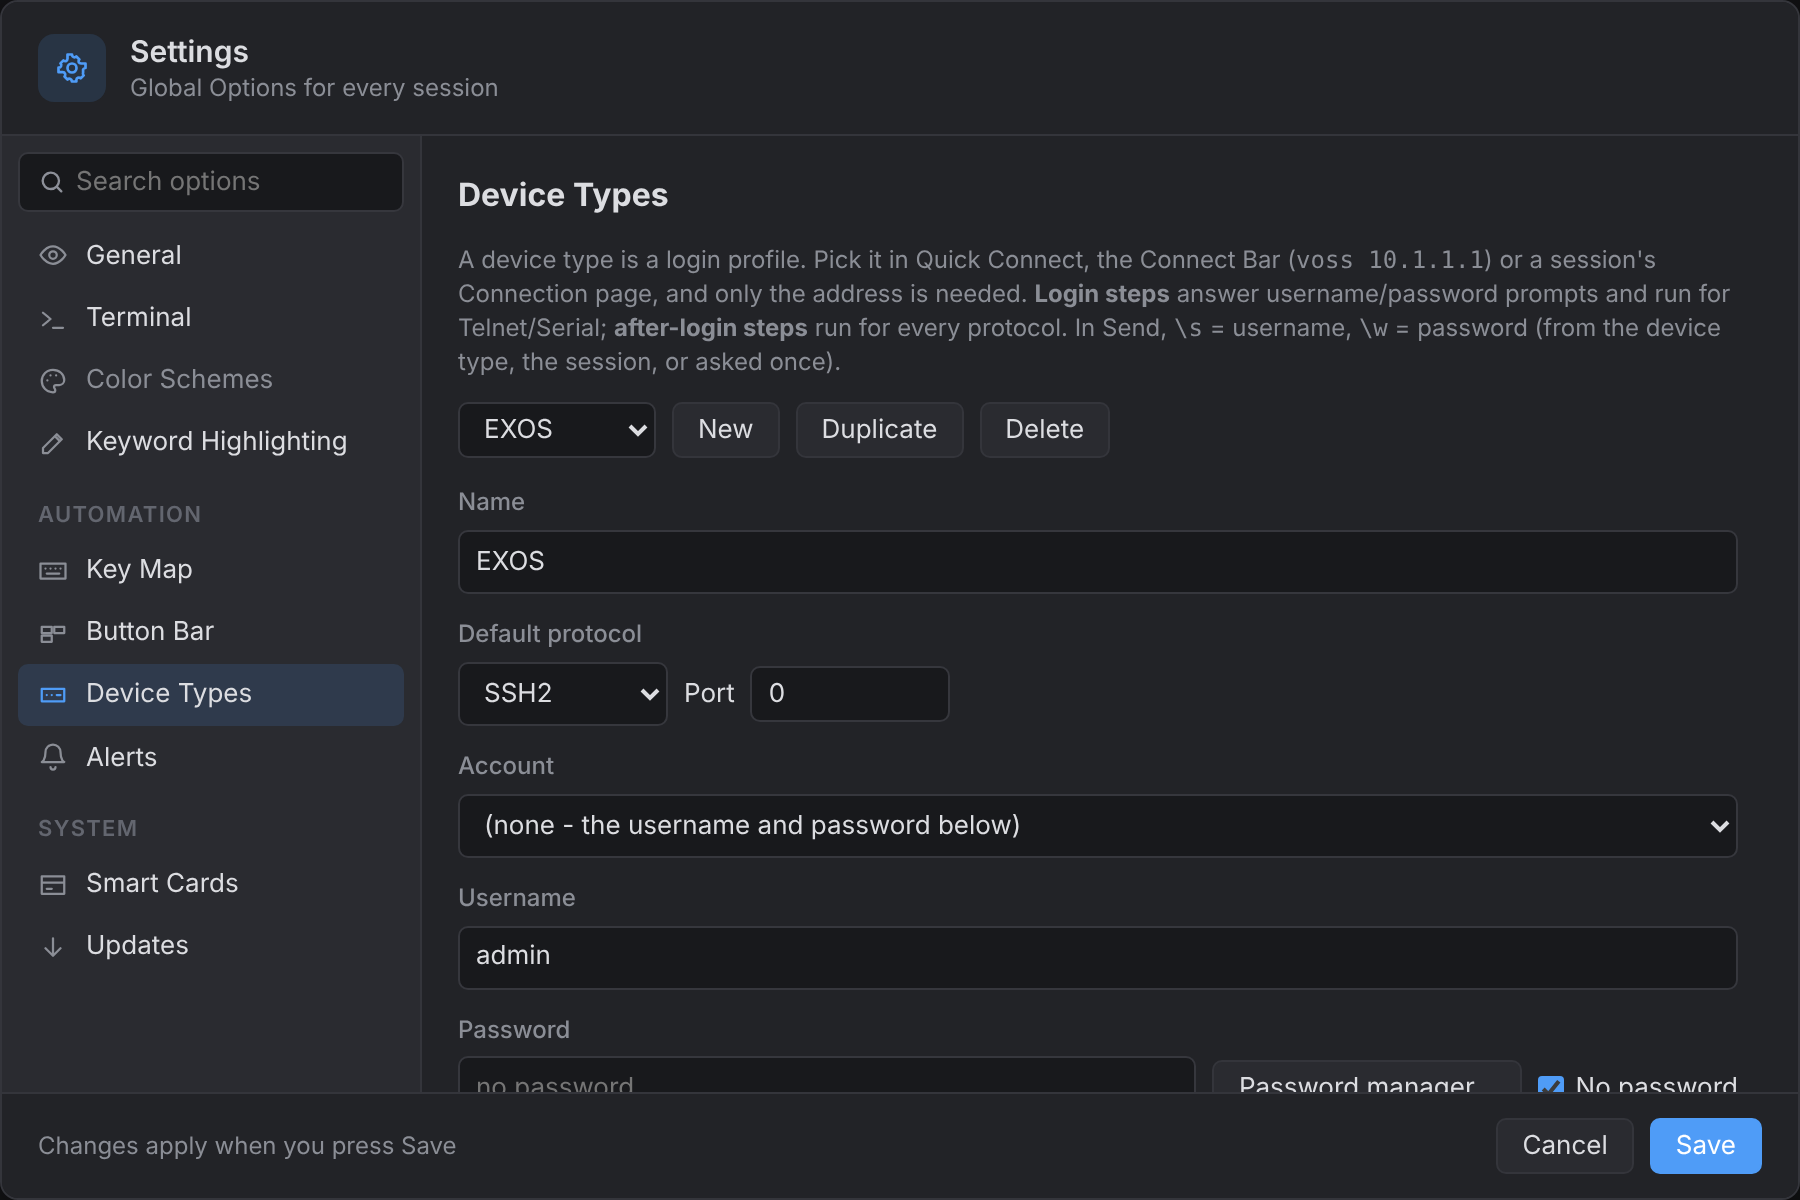
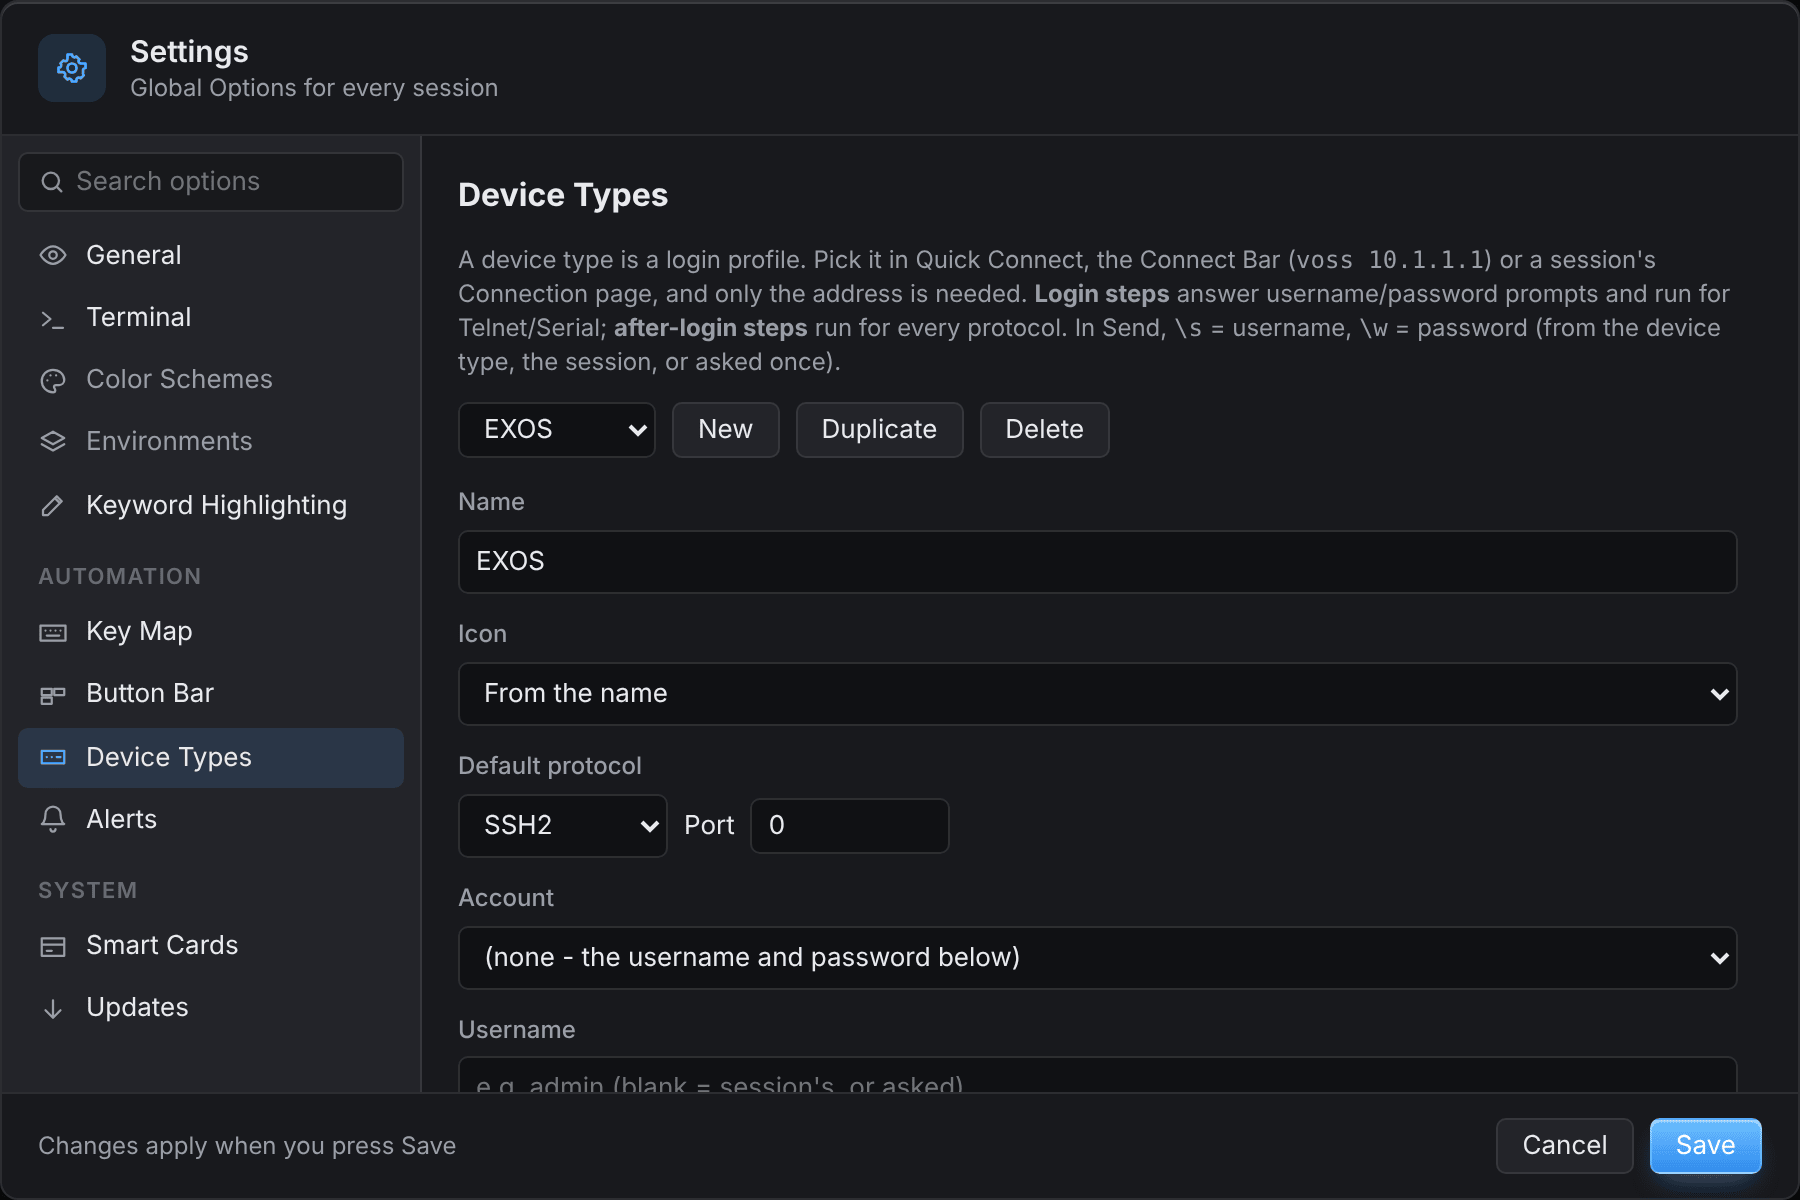
README and user guide: login method, Discover Connect and device types, fonts, Russian menu, new screenshots

diff --git a/docs/USER_GUIDE.md b/docs/USER_GUIDE.md
@@ -124,6 +124,7 @@ Devices log in differently: EXOS is ready at `#` after username and password, VO
 ![Device Types](screenshots/devicetypes.png)
 
 - Built-in: **EXOS**, **VOSS**, **Cisco IOS**, **Linux** - edit them or add your own (*New*, *Duplicate*).
+- **Icon**: the icon of the sessions with this device type - *From the name* (the default: EXOS and VOSS get a switch, Linux a server …) or one you pick: switch, router, firewall, access point, server, NAS, computer, phone, IP phone, IoT board, TV / media player, camera, printer. Device types made in Discover Devices (*+ New device type…*) get their icon there.
 - **Login steps** answer `login:` / `Password:` prompts; they run for Telnet, Serial and Raw (SSH authenticates before the shell starts).
 - **After-login steps** run for every protocol, e.g. `>` → `enable`, `#` → `terminal more disable`.
 - **Username and Password**: the device type's own login, with the password stored in the OS keychain (never in `settings.json`). Leave the password empty to be asked at connect time - the session's Login box then says *password asked when connecting*, and the password prompt offers **Remember for device type …**: tick it to save what you type, or leave the password empty and tick it to record that the device has none. Tick **No password** for devices whose account has an empty password (e.g. EXOS `admin` out of the box) - Termwright then sends an empty password and never asks. *Forget* removes a saved password.
@@ -199,6 +200,20 @@ The old algorithms are added at the **end** of each list, so a device that also 
 ![Custom algorithm lists](screenshots/algorithms-custom.png)
 
 An unknown name is reported by name when you connect. When the host key is already recorded in `known_hosts`, its algorithm is tried first so the saved key still matches. Use these options only on networks you trust: the weak algorithms are weak for a reason.
+
+### Log in with: password, key, or key then password
+
+An SSH session's side panel (New Session, or right-click → *Properties…*) and Session Options → Connection have **Log in with**:
+
+- **Password**: the username and password (also for devices that ask through keyboard-interactive prompts).
+- **Key**: an SSH key only. *Private key* is empty for the default keys in `~/.ssh` and the SSH agent; **Choose…** picks a key file; **+ Generate a new key** makes an Ed25519 key for this server (`~/.ssh/termwright_<host>_ed25519`, or reuses it when it is already there).
+- **Key, then password**: the key first, and the password when the server refuses the key - handy while a key is being rolled out.
+
+Tick **Copy the key to the server at the first login** and the first connection asks for the password once; when it is connected, Key Login Setup opens with the key filled in, adds the public key to the server and checks it. The password stays as a fallback (the session is set to *Key, then password*).
+
+| Session panel | Session Options → Connection |
+|---|---|
+| ![Log in with a key in the session panel](screenshots/session-login-key.png) | ![Log in with in Session Options](screenshots/session-options-login.png) |
 
 ### SSH keys: generate, install and store
 
@@ -362,7 +377,9 @@ Devices cabled to a console server (terminal server) get a session of protocol *
 
 - **New session**: **+** after the tabs, *New* at the bottom of the Session Manager, `Mod+N`, or right-click a folder → *New Session* (goes into the selected folder). It opens in the **session side panel** with the everyday fields; **All session options…** opens the full dialog.
 - **New folder**: folder-plus icon or right-click → *New Folder*. Folders can be nested.
-- **Edit**: right-click → *Properties…* (or *Options → Session Options* for the active tab).
+- **Edit**: right-click → *Properties…* (or *Options → Session Options* for the active tab). *Properties…* is always the last item of a session's menu, below *Delete*; for a folder the last item is *Folder Defaults…*.
+
+  ![A session's right-click menu with Properties at the end](screenshots/session-menu.png)
 - **Duplicate / Rename / Delete**: right-click a session. Deleting a folder deletes the sessions inside it (you are asked first).
 - **Move**: drag a session or folder onto another folder (or onto a session to drop into its folder; onto empty space for the top level). Termwright asks first - *Move "core-sw2" from "Datacenter/Core" to "Cloud"?* - so a slip of the mouse does not move anything; Settings → General → *Confirm before moving sessions* turns the question off.
 - **Copy, Cut and Paste**: right-click a session, folder or selection → **Copy** (`Cmd/Ctrl+C`) or **Cut** (`Cmd/Ctrl+X`), then right-click a folder → **Paste** (`Cmd/Ctrl+V`; on a session it pastes into that session's folder; the ⋯ menu pastes at the top level). Paste after Cut moves; after Copy it makes copies - a folder with all its sub-folders and sessions - keeping the names when they are free there (otherwise *name (2)*). Saved passwords are copied with the sessions.
@@ -471,10 +488,22 @@ You can also teach from the terminal: select the value in a tab, then **Edit →
 
    Besides the login and web ports, the scan asks each address over unicast mDNS which services it offers (DNS-SD) and tries CoAP, the ESPHome API, MQTT and Modbus/TCP, so microcontroller boards without SSH or a web page are found too. An iPhone offering `_apple-mobdev2` or an Android phone offering wireless debugging (`_adb-tls-connect`) is recognised the same way.
 
-   **Connect without saving**: double-click a device (or right-click → *Connect*) to open a tab to it straight away with the suggested device type; the window stays open.
+   **Connect without saving**: every device has a **Connect ▾** button. The button connects the recommended way (SSH before Telnet, then RDP, VNC or the web interface); **▾** lists every way the device answered - SSH, SFTP (files), Telnet, RDP, VNC, the web interface (HTTP or HTTPS). Double-click a device does the same as the button; right-click lists every way too (*Connect: SSH - recommended*, …). The tab opens with the suggested device type and the window stays open.
+
+   ![Connect ▾ lists every way a device answered](screenshots/discover-connect.png)
+
+   **Best guesses**: a device that nothing named gets a guess with its reason in the *Type* column, e.g. *Router / access point - likely: TP-Link, web admin only*, a TV or media player (Samsung, LG, Roku, Chromecast …), a camera (Hikvision, Dahua, Axis, Reolink …) or the gateway (the network's `.1` with a web page).
+
+   **Another device at a saved address**: when a session's address now answers with a different MAC address, *10.20.0.40 is now another device* names the session and both MAC addresses: **Keep** leaves the session as it is, **Update the session** saves the new MAC address.
 
    Product names win over generic words: a NAS whose SNMP says "Linux" but whose web page says "TerraMaster" is shown as a NAS.
-5. **Add**: devices with SSH or Telnet are ticked (those already in the Session Manager are marked *in sessions* and left unticked; this computer is never ticked). Devices without a login port are shown but cannot be added; tick *Only devices with SSH or Telnet* to hide them. Pick a **device type** per device - Termwright suggests one from the network OS that any evidence names (an SNMP description, the web certificate *Extreme Networks, Inc., EXOS* or the EXOS Telnet greeting *telnet session telnet0 on /dev/pty…* all mean EXOS, even when the switch runs OpenSSH), then from what the device reports (VOSS, Cisco IOS, Linux …) or, failing that, from the **Telnet login prompt** compared with the first login step of your device types (e.g. EXOS `login:`, VOSS `Login:`). Type or choose a **folder** (default *Discovered*) and click **Add N Sessions**.
+5. **Add**: devices with SSH or Telnet are ticked (those already in the Session Manager are marked *in sessions* and left unticked; this computer is never ticked). Devices without a login port can be added when they have a MAC address (as Wake-on-LAN sessions); tick *Only devices you can connect to* to hide the others.
+
+   Pick a **device type** per device - also for phones, IoT boards, TVs and other devices without SSH or Telnet, where it sets the session's icon. Termwright suggests one from the network OS that any evidence names (an SNMP description, the web certificate *Extreme Networks, Inc., EXOS* or the EXOS Telnet greeting *telnet session telnet0 on /dev/pty…* all mean EXOS, even when the switch runs OpenSSH), then from what the device reports (VOSS, Cisco IOS, Linux …) or, failing that, from the **Telnet login prompt** compared with the first login step of your device types (e.g. EXOS `login:`, VOSS `Login:`). **+ New device type…** at the end of the list makes a device type right there: a name and an icon (phone, IoT, TV, camera, router …); login steps can be added later in Options → Device Types.
+
+   ![+ New device type… with its icon](screenshots/discover-newtype.png)
+
+   What to add sits in the bar at the bottom, next to the button (greyed out until devices are selected): type or choose a **folder** (default *Discovered*) and click **Add N Sessions**.
    - **Add** *all selected devices* (the default) or *only the selected devices of these device types*: tick one or more device types (each shows how many selected devices it has; *(no device type)* covers devices without one).
    - **A subfolder per device type** files the sessions under the folder by device type, e.g. *Discovered/EXOS*, *Discovered/VOSS* (devices without a type go to *Other*).
    - These choices are remembered for the next scan. Sessions are named after the device and get its vendor and system as description; folder defaults apply as usual.
@@ -1083,7 +1112,7 @@ Notes:
 ![Light theme with Solarized Light](screenshots/light.png)
 
 - **UI theme**: the **theme switch** at the top right - sun = Light, moon = Dark, screen = follow the system (the default: light or dark with your computer, switching when it does). Hover it to see the current theme, click an icon to change it. The same choice is in Global Options → General, with an **accent color**.
-- **Interface font and text size** (Global Options → General): *System* (the default), *VS Code* (the font VS Code uses on each system - on macOS the same as System), *Inter* or *IBM Plex Sans* (both included with Termwright), and the text size from *Default (13)* to *Largest (17)*. The sample under the lists shows the choice before you press OK. It changes menus, dialogs and the Session Manager; the terminal font and size are under Terminal & Appearance (and View → Zoom).
+- **Interface font and text size** (Global Options → General): the default is the **Mac look** - the Mac's own font on macOS, and on Windows and Linux *Mac look - Inter*, the open font closest to it (shipped with Termwright). *System font of this computer* (Segoe UI, Ubuntu …), *VS Code* (the font VS Code uses on each system), *Inter* or *IBM Plex Sans* are the other choices, with the text size from *Default (13)* to *Largest (17)*. The sample under the lists shows the choice before you press OK. It changes menus, dialogs and the Session Manager; the terminal font and size are under Terminal & Appearance (and View → Zoom). Terminals use **Termwright Mono** (DejaVu Sans Mono, which Menlo was made from, also shipped) where Menlo is missing, so they look like the Mac's on every system; a terminal font you chose yourself stays.
 
   ![Interface font and text size](screenshots/options-font.png)
 
@@ -1113,7 +1142,7 @@ In the modern layout Global Options is called **Settings** (⚙ in the title bar
 |---|---|
 | ![Glacier style, dark](screenshots/glacier-dark.png) | ![Glacier style, light](screenshots/glacier-light.png) |
 
-**Settings → General → Language** switches the interface language; the change shows as soon as you press *Save*. English is the default. **Русский (Russian)** is a *preview* of an unfinished translation and is offered **only in nightly and development builds**, not in releases (it is being reviewed); it is partial: the menus, the Session Manager, Quick Connect, Settings, Session Options (Connection, Authentication and the page names) and Import Sessions are translated, and everything else stays in English until it is translated too. Terminal output, session and folder names, file names, and error messages from the program's engine are never translated.
+**Settings → General → Language** switches the interface language; the change shows as soon as you press *Save*, the main menu included (File, Edit, View, Transfer, Script, Options, Tab, Help - no restart needed). English is the default. **Русский (Russian)** translates the menus, the Session Manager, Quick Connect, Settings, Session Options and the dialogs; a text that has no translation yet stays in English. Terminal output, session and folder names, file names, and error messages from the program's engine are never translated. On macOS the application menu (About, Hide, Quit) is the system's and follows the language of macOS.
 
 ![Termwright in Russian](screenshots/language-ru.png)
 

diff --git a/README.md b/README.md
@@ -83,6 +83,20 @@ Existing sessions can be imported from SecureCRT, PuTTY, KiTTY, SuperPuTTY, Moba
   - configuration backups with change detection, change checklists, and Run and Collect.
 - **Networks in between**: jump hosts (chainable), SOCKS5 and HTTP proxies, port forwarding, and SFTP to a host behind a bastion through the bastion's own key. Web interfaces of devices behind a jump host open in a browser window whose traffic goes through the SSH connection.
 
+## Coming in the next release
+
+Already in the [nightly builds](https://github.com/nperiannan/termwright/releases/tag/nightly):
+
+- **A Mac look on Windows and Linux.** The interface uses Inter and terminals use Termwright Mono (DejaVu Sans Mono, which Menlo was made from), both shipped with Termwright, so it looks the same on every system. *System font of this computer* brings the old look back.
+- **Log in with a password, a key, or a key then a password**, chosen in the session panel and in Session Options. *Generate a new key* makes one for the server, and *Copy the key to the server at the first login* installs it at the first connection.
+- **Discover Devices: Connect ▾ and device types for every device.** Each device has a *Connect* button with every way it answered; phones, TVs, cameras and IoT boards can get a device type too, or a new one made from the list with its own icon. What to add sits in the bar at the bottom.
+- **Russian main menu** ([#2](https://github.com/nperiannan/termwright/issues/2)). File, Edit, View and the rest follow Settings → General → Language, without a restart.
+- **Properties is the last item** of a session's right-click menu.
+
+| | |
+|---|---|
+| ![Discover Devices with Connect](docs/screenshots/discover-connect.png) <br/>*Discover Devices: Connect ▾ with every way a device answered* | ![Log in with a key](docs/screenshots/session-login-key.png) <br/>*Log in with: Password · Key · Key, then password* |
+
 ## What's new in 0.28
 
 - **Termwright for Android: a terminal.** SSH and Telnet sessions open on the phone with the desktop's terminal and a key bar for Esc, Tab, Ctrl, Alt and the arrows. Logins are kept encrypted, host keys are checked, sessions with a jump host go through it when you are away, and open sessions stay connected in the background.
@@ -146,7 +160,7 @@ Earlier releases are described in the [changelog](CHANGELOG.md).
 | Device types | Per-platform login profiles: login steps for Telnet and serial, after-login steps for every protocol (for example `enable`, paging off), and credentials inherited or overridden per session. |
 | Device facts | Model, version, serial number, MAC address, uptime and custom values, read in a background login. Built-in rules for VOSS, EXOS, Cisco IOS and Linux. |
 | Session management | Wake-on-LAN (also through a jump host); folders with defaults; favourites and recents; environments, with confirmation before multi-tab sends to production; reachability checks; bulk edit; workspaces; Quick Open; drag and drop. |
-| Discovery | Scans a network or range (up to /22): open ports, SSH and Telnet banners, web servers and certificates, SIP, SNMP v2c, DNS, MAC vendor. Each result shows its evidence; selected devices are added as sessions. Discovery never logs in. |
+| Discovery | Scans a network or range (up to /22): open ports, SSH and Telnet banners, web servers and certificates, SIP, SNMP v2c, DNS, MAC vendor. Each result shows its evidence, a guessed kind, a device type (also new ones, with their icon) and *Connect ▾* with every way it answered; selected devices are added as sessions. Discovery never logs in. |
 | Import and export | Sessions are plain-text `.ini` files, and unknown keys are preserved byte for byte. Import from SecureCRT (Config folder, zip, XML), PuTTY / KiTTY, SuperPuTTY, MobaXterm, mRemoteNG, OpenSSH config, CSV, Ansible, NetBox and AWS EC2. Export to the same formats plus Tabby. |
 | Terminal | Tabs and tiled layouts; xterm-256color and true colour; Unicode; scrollback search; keyword highlighting; timestamps; auto-scroll control; clickable links; session lock; zoom; per-session fonts and colour schemes. |
 | File transfer | SFTP browser with folder transfers, sync, resume, bookmarks, compare, server-to-server copy, SCP, sudo / su and jump-station targets. Files panel beside the terminal. SCP. ZMODEM (automatic `sz` / `rz`), YMODEM batch, XMODEM. |
@@ -168,7 +182,7 @@ The complete list is in [docs/FEATURES.md](docs/FEATURES.md).
 | ![Compare](docs/screenshots/sftp-compare.png) <br/>*Comparing two files, with the verdict at the top* | ![Device facts](docs/screenshots/device-facts.png) <br/>*Device facts: read, edit, teach* |
 | ![Tiled sessions](docs/screenshots/grid.png) <br/>*Tiled sessions with keyword highlighting* | ![Session Manager](docs/screenshots/session-manager.png) <br/>*Session Manager with the hover card* |
 | ![Quick Connect](docs/screenshots/quickconnect.png) <br/>*Quick Connect with a device type* | ![Settings](docs/screenshots/options.png) <br/>*Settings* |
-| ![Discover Devices](docs/screenshots/discover.png) <br/>*Network discovery with evidence per device* | ![Configuration backups](docs/screenshots/backups.png) <br/>*Configuration backups* |
+| ![Discover Devices](docs/screenshots/discover.png) <br/>*Network discovery: evidence, device type and Connect per device* | ![Configuration backups](docs/screenshots/backups.png) <br/>*Configuration backups* |
 | ![Change checklist](docs/screenshots/checklist.png) <br/>*Change checklist: same or changed per device* | ![Run and Collect](docs/screenshots/collect.png) <br/>*Run and Collect into one table* |
 | ![Open Web Interface](docs/screenshots/web-open.png) <br/>*A device's web interface through its jump station* | ![Command History](docs/screenshots/history.png) <br/>*Command History* |
 | ![Light theme](docs/screenshots/light.png) <br/>*Glacier, light: white and grey with 3D cards* | ![Files panel on the left](docs/screenshots/files-panel-right.png) <br/>*Files panel on the left when the Session Manager is on the right* |
